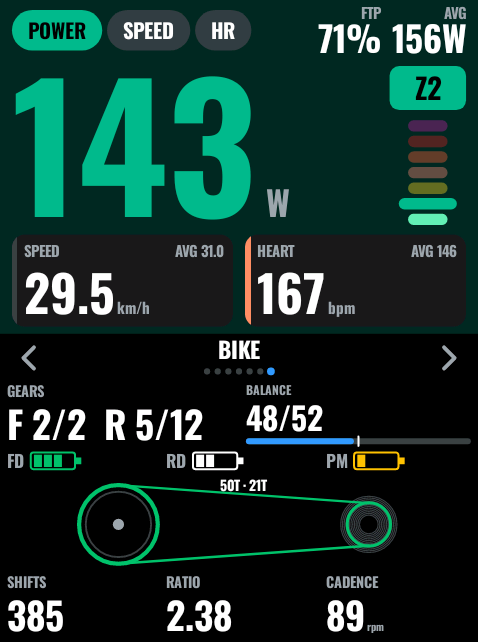
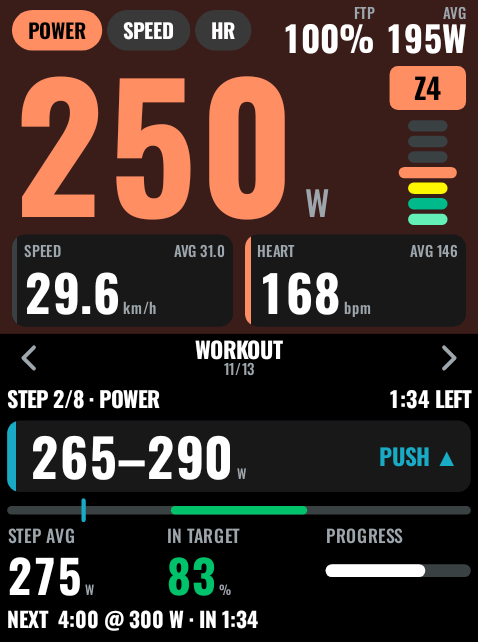
Fresh store screenshots, README leads with them, tidier Home screen
- docs/ screenshots (Karoo Extensions listing and README) were from
  v0.1.0. The debug exportshots hook now renders them from default
  settings: Ride with the top filled, Climb, Workout, plus Pace, Fuel,
  Segment, Weather and the next-step countdown for the README.
- README opens with three screenshots under the first sentence; no
  em-dash in the title.
- Home: the wordmark in Oswald like the field, 19-word setup line
  without a lone last word, and one primary button (Preview) with
  Settings outlined and About as a text button.

diff --git a/app/src/main/kotlin/io/github/mschache/karoopro/ui/settings/SettingsScreen.kt b/app/src/main/kotlin/io/github/mschache/karoopro/ui/settings/SettingsScreen.kt
@@ -36,10 +36,13 @@ import androidx.compose.runtime.setValue
 import androidx.compose.ui.Alignment
 import androidx.compose.ui.Modifier
 import androidx.compose.ui.platform.LocalContext
+import androidx.compose.ui.text.font.Font
+import androidx.compose.ui.text.font.FontFamily
 import androidx.compose.ui.text.font.FontWeight
 import androidx.compose.ui.unit.dp
 import androidx.compose.ui.unit.sp
 import io.github.mschache.karoopro.BuildConfig
+import io.github.mschache.karoopro.R
 import io.github.mschache.karoopro.calc.FuelItem
 import io.github.mschache.karoopro.data.AlertStyle
 import io.github.mschache.karoopro.data.BigMetric
@@ -54,18 +57,21 @@ import kotlinx.coroutines.launch
 @Composable
 fun HomeScreen(open: (Screen) -> Unit) {
     Column(Modifier.fillMaxSize().padding(12.dp), verticalArrangement = Arrangement.spacedBy(10.dp)) {
-        Text("KarooPRO", fontSize = 30.sp, fontWeight = FontWeight.Bold, color = MaterialTheme.colorScheme.primary)
+        // The wordmark in the field's own typeface.
+        Text("KarooPRO", fontSize = 34.sp, fontFamily = Oswald, color = MaterialTheme.colorScheme.primary)
         Text("Ride by effort", fontSize = 16.sp, color = MaterialTheme.colorScheme.onBackground)
         Text(
-            "Add a ride page with one field and choose KarooPRO. Tap the top to switch power, speed and heart rate; tap the left or right of the panel to flip.",
+            "Add a one-field ride page and choose KarooPRO. Tap the top to switch numbers, the sides to flip\u00A0panels.",
             fontSize = 13.sp,
             color = MaterialTheme.colorScheme.onBackground.copy(alpha = 0.7f),
         )
         Button(onClick = { open(Screen.PREVIEW) }, modifier = Modifier.fillMaxWidth()) { Text("Preview") }
-        Button(onClick = { open(Screen.SETTINGS) }, modifier = Modifier.fillMaxWidth()) { Text("Settings") }
-        OutlinedButton(onClick = { open(Screen.ABOUT) }, modifier = Modifier.fillMaxWidth()) { Text("About") }
+        OutlinedButton(onClick = { open(Screen.SETTINGS) }, modifier = Modifier.fillMaxWidth()) { Text("Settings") }
+        TextButton(onClick = { open(Screen.ABOUT) }, modifier = Modifier.fillMaxWidth()) { Text("About") }
     }
 }
+
+private val Oswald = FontFamily(Font(R.font.oswald_bold, FontWeight.Bold))
 
 @Composable
 fun AboutScreen() {

diff --git a/app/src/main/kotlin/io/github/mschache/karoopro/ui/settings/MainActivity.kt b/app/src/main/kotlin/io/github/mschache/karoopro/ui/settings/MainActivity.kt
@@ -95,6 +95,26 @@ class MainActivity : ComponentActivity() {
                 for ((name, size) in listOf("strip-wide" to (478 to 150), "strip-half" to (236 to 160))) {
                     java.io.File(dir, "$name.png").outputStream().use { painter.paintStrip(strip, size.first, size.second).compress(android.graphics.Bitmap.CompressFormat.PNG, 100, it) }
                 }
+                // Store and README screenshots (docs/): default settings, the hero filled on the first.
+                data class Shot(val name: String, val panel: Panel, val t: Long, val mode: io.github.mschache.karoopro.data.ColorMode, val overlay: Int = 0)
+                val tint = io.github.mschache.karoopro.data.ColorMode.TINT
+                for (shot in listOf(
+                    Shot("screenshot-1", Panel.RIDE, 0, io.github.mschache.karoopro.data.ColorMode.FILL),
+                    Shot("screenshot-2", Panel.CLIMB, 24, tint),
+                    Shot("screenshot-3", Panel.WORKOUT, 120, tint),
+                    Shot("screenshot-pace", Panel.PACE, 48, tint),
+                    Shot("screenshot-fuel", Panel.FUEL, 60, tint),
+                    Shot("screenshot-segment", Panel.SEGMENT, 36, tint),
+                    Shot("screenshot-weather", Panel.WEATHER, 72, tint),
+                    Shot("screenshot-alert", Panel.WORKOUT, 120, tint, overlay = 1),
+                )) {
+                    val s = io.github.mschache.karoopro.data.Settings(colorMode = shot.mode)
+                    val model = io.github.mschache.karoopro.ui.field.FieldModelBuilder.build(
+                        io.github.mschache.karoopro.ui.field.DemoSource(s, graph.hub.profile.value, t = shot.t, overlayMode = shot.overlay),
+                        shot.panel, Panel.entries, w / density, h / density, density, interactive = false, systemDark = true,
+                    )
+                    java.io.File(dir, "${shot.name}.png").outputStream().use { painter.paint(model, w, h).compress(android.graphics.Bitmap.CompressFormat.PNG, 100, it) }
+                }
                 android.util.Log.i("KarooPRO", "exportshots written to $dir")
             }
         }

diff --git a/README.md b/README.md
@@ -1,6 +1,12 @@
-# KarooPRO — ride by effort on your Karoo
+# KarooPRO: ride by effort on your Karoo
 
 KarooPRO is a free, open-source extension for the **Hammerhead Karoo 3** (and Karoo 2) that puts your whole ride on one page.
+
+<p>
+  <img src="docs/screenshot-1.png" width="240" alt="Ride panel, the top filled in the power zone color">
+  <img src="docs/screenshot-2.png" width="240" alt="Climb panel with the climb's profile by grade">
+  <img src="docs/screenshot-3.png" width="240" alt="Workout panel with the step target and PUSH">
+</p>
 
 The top of the page shows one big number: 3-second power, speed or heart rate, and optionally 10-second power, % FTP or W/kg. Tap it to switch between the ones you picked. Two cards sit right below: by default the two of power, speed and heart rate that aren't on top, or any two values you choose. The number and the page are colored by your training zone, so you feel your effort before you read it.
 
@@ -54,11 +60,11 @@ With no power meter, KarooPRO starts on speed and colors by heart rate.
 **Your FIT file** gets KarooPRO's own values as developer fields every second: W′ balance, carbs burned and eaten, stamina and headwind, plus the carb totals for the ride. intervals.icu shows them as extra charts.
 
 <p>
-  <img src="docs/screenshot-1.png" width="240" alt="Workout panel">
-  <img src="docs/screenshot-2.png" width="240" alt="Effort panel">
-  <img src="docs/screenshot-3.png" width="240" alt="Bike panel">
-  <img src="docs/screenshot-weather.png" width="240" alt="Weather panel">
-  <img src="docs/screenshot-alert.png" width="240" alt="Next-step countdown">
+  <img src="docs/screenshot-pace.png" width="240" alt="Pace panel with the target for this stretch">
+  <img src="docs/screenshot-fuel.png" width="240" alt="Fuel panel with carbs eaten and burned">
+  <img src="docs/screenshot-segment.png" width="240" alt="Segment panel with the gap to your PR">
+  <img src="docs/screenshot-weather.png" width="240" alt="Weather panel with the wind for your direction">
+  <img src="docs/screenshot-alert.png" width="240" alt="Next workout step countdown">
 </p>
 
 ## Map layers
